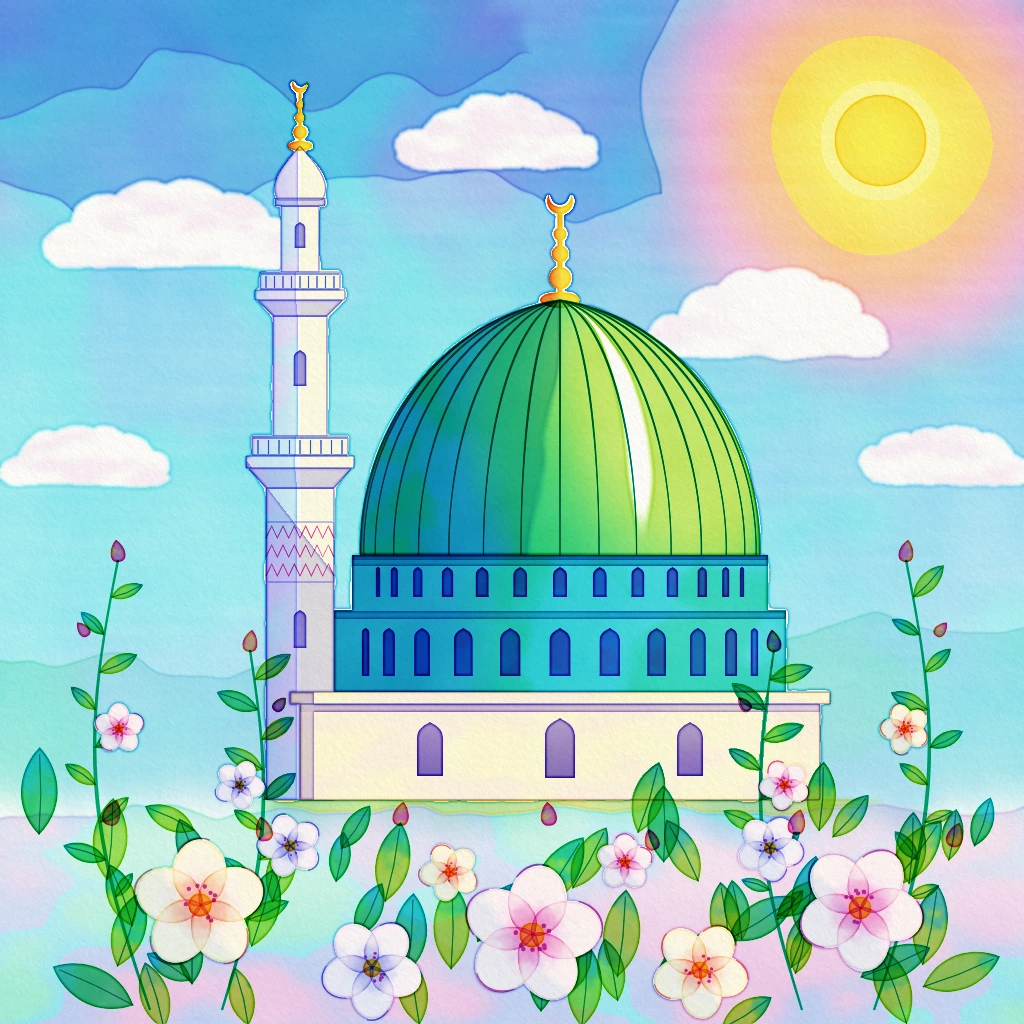
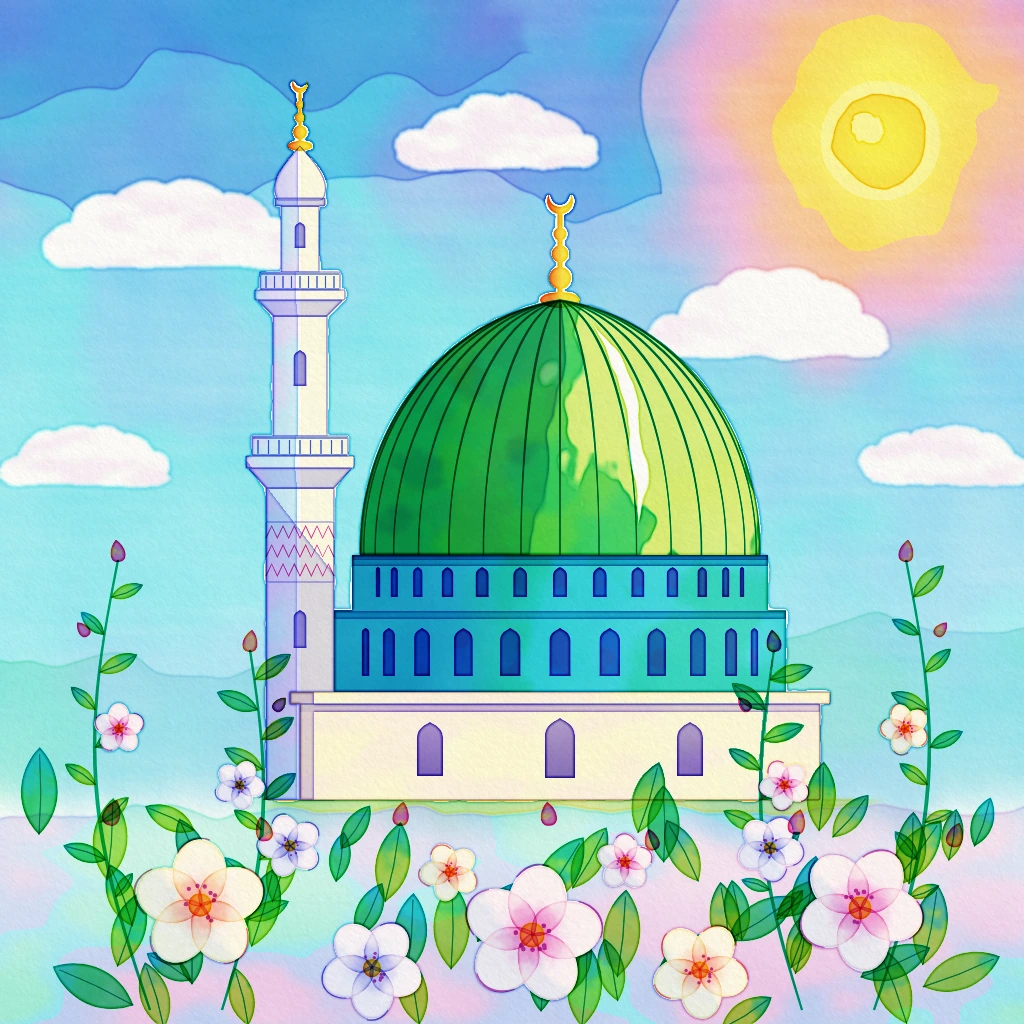
Atölye: üçüncü tur gözden geçirmelerinin ara kaydı
Claude-Session: https://claude.ai/code/session_01Q8CfoBGMPN7gfLWQYpMs1J

diff --git a/atolye/stiller/S-085-renkli-murekkep/ornek.html b/atolye/stiller/S-085-renkli-murekkep/ornek.html
@@ -353,7 +353,7 @@
     const A = kapsamAlan(kGok, (x, y) => (1 - pay[y * W + x]) * (1 - bulut(x, y)) * sstep(840, 760, y + (fbm(nA, x / 60, 3, 2) - 0.5) * 60));
     murekkep(kGok, A, {
       pig: (x, y) => {
-        const d = gd(x, y) + (fbm(nE, x / 160, y / 160, 2) - 0.5) * 24;
+        const d = gd(x, y) + (fbm(nE, x / 90, y / 90, 3) - 0.5) * 80;
         const sicak = d < 110 ? lerpK(P.lim, karis(P.lim, 0.7, P.tur3, 0.5), sstep(50, 110, d)) : lerpK(karis(P.tur3, 0.7, P.gul, 0.4), karis(P.gul, 0.8, P.mor, 0.25), sstep(110, 190, d));
         const soguk = lerpK(gecis(P.tur, P.lac, x, y, 170, 3), karis(P.kob, 0.8, P.mor, 0.25), sstep(0.62, 0.8, fbm(nB, x / 220, y / 200, 3)) * sstep(500, 100, y));
         return lerpK(sicak, soguk, sstep(170, 270, d));
@@ -381,25 +381,45 @@
   // bulutların gölge yanına soluk leylak-gül (mürekkep ıslakta yayılmış)
   murekkep(kGok, kapsamAlan(kGok, (x, y) => { const b = bulut(x, y); return b * sstep(0.45, 0.7, fbm(nE, x / 40, y / 16, 3)) * sstep(180, 300, gd(x, y)) * (1 - pay[y * W + x]); }), { pig: karis(P.mor, 0.5, P.gul, 0.5), yog: 0.05, yumusak: 3, kenar: 0.6, tohum: 3 });
   // güneş: limon sarısı disk, kenarı keskin
-  murekkep([800, 60, 960, 220], kapsamAlan([800, 60, 960, 220], (x, y) => sstep(47, 45, gd(x, y))), { pig: (x, y) => lerpK(P.lim, karis(P.lim, 0.8, P.tur3, 0.4), sstep(10, 46, gd(x, y))), yog: 0.22, tohum: 4 });
+  {
+    const gs = (x, y) => { const a = Math.atan2(y - 140, x - 880); return 47 + (fbm(nB, Math.cos(a) * 1.5 + 7, Math.sin(a) * 1.5 + 3, 3) - 0.5) * 9; };
+    const ic = (x, y) => Math.hypot(x - 868, y - 128) + (fbm(nE, x / 9, y / 9, 2) - 0.5) * 9;
+    murekkep([790, 50, 970, 230], kapsamAlan([790, 50, 970, 230], (x, y) => sstep(gs(x, y) + 1, gs(x, y) - 1, gd(x, y)) * sstep(15, 17, ic(x, y))), { pig: (x, y) => lerpK(P.lim, karis(P.lim, 0.75, P.tur3, 0.45), sstep(14, 48, gd(x, y))), yog: 0.24, kenar: 1.8, tohum: 4 });
+  }
 
   // ============================================================ KUBBE: zümrüt, limon yeşili ve turkuaz ıslakta
   const kKub = [340, 280, 780, 580];
   const kubM = KUBBE_M;
-  const parlak = (x, y) => { const u = kubbeU(x, y), t = (555 - y) / 255; return sstep(0.035, 0.0, Math.abs(u - 0.4 - 0.07 * t) - 0.045 * sstep(0.05, 0.35, t) * sstep(1, 0.7, t)) * sstep(0.04, 0.2, t); };
-  murekkep(kKub, kapsamAlan(kKub, (x, y) => kubM[y * W + x] * (1 - parlak(x, y))), {
-    pig: (x, y) => {
-      const l = kubbeIsik(x, y);
-      const lit = lerpK(karis(P.yes, 0.8, P.lim, 0.3), karis(P.zum, 0.8, P.yes, 0.3), sstep(0.9, 0.55, l));
-      const sh = gecis(karis(P.zum, 0.7, P.tur2, 0.5), karis(P.tur2, 0.6, P.kob, 0.35), x, y, 70, 11);
-      return lerpK(sh, lit, sstep(0.25, 0.6, l));
-    },
-    yog: (x, y) => 0.32 + 0.42 * Math.pow(1 - kubbeIsik(x, y), 1.3), tohum: 11,
+  // ışıklı şerit: boyanmadan bırakılmış kâğıt; kenarı fırçanın bıraktığı gibi düzensiz, yer yer kopuk
+  const parlak = (x, y) => {
+    const u = kubbeU(x, y), t = (555 - y) / 255;
+    const gen = 0.05 * sstep(0.05, 0.35, t) * sstep(1, 0.72, t) * (0.55 + 0.9 * fbm(nE, x / 30, y / 26, 2)) - 0.012;
+    return sstep(0.006, -0.006, Math.abs(u - 0.4 - 0.07 * t + (fbm(nD, x / 20, y / 44, 2) - 0.5) * 0.06) - gen) * sstep(0.04, 0.16, t);
+  };
+  const kubIc = (x, y) => kubM[y * W + x] * (1 - parlak(x, y));
+  // 1. ıslak alt kat: limon yeşili ve sarı, bütün kubbede
+  murekkep(kKub, kapsamAlan(kKub, kubIc), { pig: (x, y) => gecis(karis(P.yes, 0.7, P.lim, 0.5), karis(P.lim, 0.6, P.yes, 0.6), x, y, 50, 9), yog: 0.24, kenar: 1.2, tohum: 10 });
+  // 2. zümrüt havuzu: ışıklı yanın dışında her yeri kaplar; ıslakta turkuaza geçer, kenarı keskin kurur
+  const zumSinir = (x, y) => kubbeIsik(x, y) + (fbm(nC, x / 34, y / 52, 3) - 0.5) * 0.32;
+  murekkep(kKub, kapsamAlan(kKub, (x, y) => kubIc(x, y) * sstep(0.8, 0.77, zumSinir(x, y))), {
+    pig: (x, y) => gecis(karis(P.zum, 0.8, P.yes, 0.35), karis(P.zum, 0.6, P.tur2, 0.6), x, y, 60, 11),
+    yog: (x, y) => 0.22 + 0.3 * Math.pow(1 - kubbeIsik(x, y), 1.4), kenar: 1.8, tohum: 11,
   });
-  // gölge sırı
-  murekkep(kKub, kapsamAlan(kKub, (x, y) => kubM[y * W + x] * sstep(-0.12, -0.18, kubbeU(x, y) + (fbm(nD, x / 30, y / 60, 2) - 0.5) * 0.12 - 0.15 * (555 - y) / 255)), { pig: karis(P.tur2, 0.5, P.kob, 0.45, P.mor, 0.15), yog: 0.2, tohum: 12 });
+  // 3. gölge yanında turkuaz-kobalt havuzu, içinde ıslağa düşmüş mor damlalar
+  murekkep(kKub, kapsamAlan(kKub, (x, y) => kubIc(x, y) * sstep(-0.1, -0.14, kubbeU(x, y) + (fbm(nD, x / 30, y / 60, 3) - 0.5) * 0.3 - 0.15 * (555 - y) / 255)), {
+    pig: (x, y) => gecis(karis(P.tur2, 0.6, P.kob, 0.45), karis(P.kob, 0.55, P.tur2, 0.4, P.mor, 0.2), x, y, 40, 12), yog: 0.24, kenar: 1.8, tohum: 12,
+  });
+  {
+    const r = SAHNE.rng(1201);
+    for (const [lx, ly, lr] of [[420, 470, 26], [470, 380, 20], [395, 520, 18], [520, 450, 16]]) {
+      const A = kapsamCiz(kKub, (c) => hobbsCiz(c, damla(lx, ly, lr, lr * 0.8, r() * 3, 9, r), 12, 0.1, r, 0.6));
+      const As = bulanik(A, kKub[2] - kKub[0], kKub[3] - kKub[1], 3);
+      for (let j = 0; j < As.length; j++) { const x = kKub[0] + (j % (kKub[2] - kKub[0])), y = kKub[1] + ((j / (kKub[2] - kKub[0])) | 0); As[j] *= kubIc(x, y); }
+      murekkep(kKub, As, { pig: karis(P.mor, 0.5, P.kob, 0.5), yog: 0.16, kenar: 1.4, tohum: 1210 + lx });
+    }
+  }
   // kaburgalar: koyu zümrüt mürekkeple ince fırça hattı
-  hat(kKub, SAHNE.kaburgalar(16, 50).map((k) => k.noktalar.slice().reverse()), { gen: 2.1, pig: karis(P.zum, 0.7, P.kob, 0.5, P.tur2, 0.3), yog: 0.7, tohum: 13, carpM: kubM });
+  hat(kKub, SAHNE.kaburgalar(16, 50).map((k) => k.noktalar.slice().reverse()), { gen: 2.3, pig: karis(P.zum, 0.7, P.kob, 0.5, P.tur2, 0.3), yog: 0.62, tohum: 13, carpM: kubM.map((v, i) => v * (1 - 0.7 * parlak(i % W, (i / W) | 0))) });
   hat([340, 280, 780, 560], [SAHNE.kubbeNoktalari(60)], { gen: 1.6, pig: karis(P.zum, 0.6, P.kob, 0.5), yog: 0.55, tohum: 14 });
   // kasnağa düşen gölge
   murekkep([350, 552, 770, 576], kapsamBolge([350, 552, 770, 576], kume('kasnak'), (x, y) => y < 566), { pig: karis(P.tur2, 0.6, P.kob, 0.5), yog: 0.3, tohum: 15 });

diff --git a/atolye/stiller/S-120-ovma/ornek.html b/atolye/stiller/S-120-ovma/ornek.html
@@ -171,8 +171,8 @@
       p1: lin(P1, 0, 0, 0, 806, [[0, gri(0.56)], [0.6, gri(0.62)], [1, gri(0.7)]]),
       p1d: { adet: 1500, deger: (x, y) => 0.52 + 0.2 * (y / 806) + 0.2 * gunesYakin(x, y, 260), boy: 34, aci: gokYon },
       s2: '#FFFBEE',
-      p2: 0.0,
-      p2d: { adet: 320, deger: (x, y) => { const g = gunesYakin(x, y, 280); return g > 0.06 ? 0.25 + 0.6 * g : null; }, boy: 56, aci: gokYon },
+      // ışık ovması: güneşin çevresinde yumuşak, düzgün azalan krem pus (halka yok)
+      p2: rad(P2, S.gunes.x, S.gunes.y, 30, 430, [[0, gri(0.92)], [0.22, gri(0.66)], [0.5, gri(0.32)], [0.78, gri(0.1)], [1, gri(0)]]),
     });
     // güneşin çevresindeki sıcak alt boya hâlesi
     U.save(); U.globalCompositeOperation = 'source-atop';
@@ -280,7 +280,7 @@
     }
     for (const w of S.minarePencereleri) {
       const yol = P(S.kemerYolu(w.x, w.y, w.w, w.h));
-      alan(yol, { kutu: [w.x - 10, w.y - 4, 20, w.h + 8], u: '#4A3FA8', s1: '#9AA8DA', p1: 0.28, p2: 0 });
+      alan(yol, { kutu: [w.x - 10, w.y - 4, 20, w.h + 8], u: '#4A3FA8', s1: '#A8B6E4', p1: 0.36, p1d: { adet: 6, deger: 0.42, boy: 5, aci: () => Math.PI / 2 }, p2: 0 });
     }
   }
 
@@ -304,7 +304,7 @@
     P1.save(); P1.fillStyle = gri(0.3); P1.fillRect(Kd.x1, Kd.y1, Kd.x2 - Kd.x1, 9); P1.restore();
     for (const w of Kd.pencereler) {
       const yol = P(S.kemerYolu(w.x, w.y, w.w, w.h));
-      alan(yol, { kutu: [w.x - 20, w.y - 4, 40, w.h + 8], u: '#4A3FA8', ud: { adet: 10, renk: ['#5A4AB8', '#3A54B0'], boy: 20, en: 6, aci: () => Math.PI / 2, alfa: 0.5 }, s1: '#A4B0E0', p1: 0.26, p2: 0 });
+      alan(yol, { kutu: [w.x - 20, w.y - 4, 40, w.h + 8], u: '#4A3FA8', ud: { adet: 10, renk: ['#5A4AB8', '#3A54B0', '#6A50C0'], boy: 20, en: 6, aci: () => Math.PI / 2, alfa: 0.5 }, s1: '#AEB8E6', p1: 0.36, p1d: { adet: 10, deger: 0.44, boy: 7, aci: () => Math.PI / 2 }, p2: 0 });
     }
   }
 
@@ -325,7 +325,7 @@
     });
     for (const w of S.kasnakPencereleri(kat)) {
       const p = P(S.kemerYolu(w.x, w.y, w.w, w.h));
-      alan(p, { kutu: [w.x - 12, w.y - 4, 24, w.h + 8], u: '#3A3C9E', s1: '#7E8ED0', p1: 0.22, p2: 0 });
+      alan(p, { kutu: [w.x - 12, w.y - 4, 24, w.h + 8], u: '#3A3C9E', s1: '#8E9CD8', p1: 0.3, p1d: { adet: 4, deger: 0.36, boy: 4, aci: () => Math.PI / 2 }, p2: 0 });
     }
   }
 
@@ -437,7 +437,7 @@
       // kuru fırça kılları (yön alanını izleyen ince çizgiler) ve çok ince tane
       const kil = Kv[j] / 255;
       const ince = vnoise(x * 0.9, y * 0.9, 19);
-      const doku = orgu * 0.3 + kil * 0.55 + ince * 0.15;
+      const doku = orgu * 0.22 + kil * 0.6 + ince * 0.18;
       // birinci ovma: her yerde ince bir pus örtüsü + kıl ve örgü tepelerinde kırık boya
       const p1 = P1v[j] / 255;
       const e1 = 1.02 - p1;
@@ -455,7 +455,7 @@
         r += (S2v[j] - r) * c2; g += (S2v[j + 1] - g) * c2; b += (S2v[j + 2] - b) * c2;
       }
       // bezin dokusu ince boyanın altından hafifçe ışıklanır (sağ üstten)
-      const ishik = (orgu - 0.55) * 0.06 + (Math.sin(Math.PI * (fx - 0.2)) - Math.sin(Math.PI * (fy + 0.2))) * 0.01;
+      const ishik = (orgu - 0.55) * 0.035 + (Math.sin(Math.PI * (fx - 0.2)) - Math.sin(Math.PI * (fy + 0.2))) * 0.01;
       const f = 1 + ishik;
       o[j] = clamp(r * f, 0, 255); o[j + 1] = clamp(g * f, 0, 255); o[j + 2] = clamp(b * f, 0, 255); o[j + 3] = 255;
     }

diff --git a/atolye/stiller/S-113-kalemisi/ornek.html b/atolye/stiller/S-113-kalemisi/ornek.html
@@ -411,8 +411,9 @@
         motif(GUL_DIS, { x, y, s: 0.5 }, RENK.lal, 1);
         motif(ornekle('M-3,0 A3,3 0 1,0 3,0 A3,3 0 1,0 -3,0 Z', 0.6), { x, y, s: 1 }, RENK.firuze, 0.8);
       } else {
-        motif(RUMI, { x: x - 1, y: y + 1, a: 0, s: 0.42 }, RENK.firuze, 0.9);
-        motif(RUMI, { x: x + 1, y: y + 1, a: Math.PI, s: 0.42, fy: true }, RENK.firuze, 0.9);
+        // karşılıklı rumi çifti: dipleri dışta, uçları ortada buluşur
+        rumi({ x: x - 13, y: y + 2, a: -0.18, s: 0.26 }, RENK.firuze, 0.8);
+        rumi({ x: x + 13, y: y + 2, a: Math.PI + 0.18, s: 0.26, fy: true }, RENK.firuze, 0.8);
       }
     }
   }
@@ -473,9 +474,14 @@
       b.save(); b.clip(kb);
       b.fillStyle = RENK.asiAcik; b.fillRect(350, 532, 420, 23);
       b.restore();
+      // dönüşümlü: küçük hatayi ve uçları yukarıda buluşan karşılıklı rumi çifti (tepelik)
       for (let k = 0; k < 13; k++) {
         const x = 386 + k * 29, y = 545;
-        motif(PENC, { x, y: y + 3, s: 0.62 }, k % 2 ? RENK.lal : RENK.firuze, 1);
+        if (k % 2 === 0) hatayi({ x, y: y + 2.5, s: 0.5 }, RENK.lal, RENK.firuzeAcik, 0.9);
+        else {
+          rumi({ x: x - 7, y: y + 8, a: -1.05, s: 0.27 }, RENK.firuze, 0.8);
+          rumi({ x: x + 7, y: y + 8, a: -Math.PI + 1.05, s: 0.27, fy: true }, RENK.firuze, 0.8);
+        }
       }
       tahrir(ornekle('M361,532 L759,532', 2), RENK.tahrir, 1.1, false);
     }

diff --git a/atolye/stiller/S-091-pastel-kalem/ornek.html b/atolye/stiller/S-091-pastel-kalem/ornek.html
@@ -722,7 +722,7 @@
   }, Object.assign({ kirp: mGok }, TARAMA));
   // bulut kenarları: ince leylak-gri kontur parçaları ve alt taraması
   katman((x) => {
-    tara(x, { bx: [0, 90, W, 560], ic: (px, py) => bulutAlt(px, py) > 0.25, aci: -1.0, aralik: 4.6, boy: 18, kal: KAL * 0.8, obek: 16, sik: 0.7,
+    tara(x, { bx: [0, 90, W, 560], ic: (px, py) => bulutAlt(px, py) > 0.25, aci: -0.3, aciJ: 0.25, aralik: 4.6, boy: 18, kal: KAL * 0.8, obek: 16, sik: 0.7,
       alfa: (px, py) => 0.42 * bulutAlt(px, py), renk: () => (r() < 0.5 ? C.leylak : C.leylakGri) }, r);
     for (const b of bulutLop) for (const [lx, ly, lr] of b.l) {
       const a0 = Math.PI * (1.05 + r() * 0.2), a1 = Math.PI * (1.95 - r() * 0.2), pts = [];
@@ -741,7 +741,7 @@
 
   // bulut tepeleri beyaz pastel kalemle: mavinin üstüne tebeşirsi ışık
   katman((x) => {
-    tara(x, { bx: [0, 90, W, 560], ic: (px, py) => bulut(px, py) > 0.3 && bulutAlt(px, py) < 0.35, aci: -1.0, aciJ: 0.2, aralik: 3.6, boy: 14, kal: KAL, obek: 12, sik: 0.7,
+    tara(x, { bx: [0, 90, W, 560], ic: (px, py) => bulut(px, py) > 0.3 && bulutAlt(px, py) < 0.35, aci: -0.45, aciJ: 0.3, aralik: 3.6, boy: 14, kal: KAL, obek: 12, sik: 0.7,
       alfa: (px, py) => 0.7 * bulut(px, py), renk: () => (r() < 0.8 ? C.beyaz : C.krem) }, r);
   }, Object.assign({ kirp: mGok }, TARAMA, { opq: 0.9 }));
 
